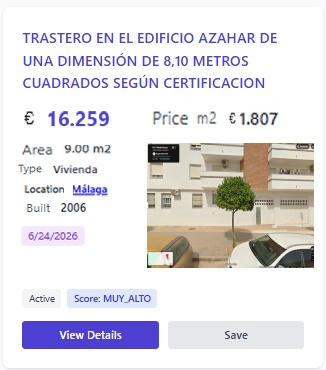
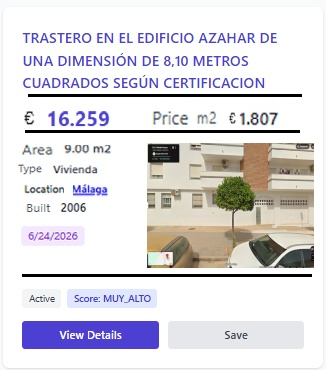
Implement global section numbering system without repetition
- Create SectionNumberContext for global counter management
- SectionNumber component auto-increments without parameters
- Add subsection numbers to AuctionCard (info + map)
- Reset counter on page navigation
- Numbers are unique and consecutive throughout entire app

Flow:
- Search page: 1 (filters), 2 (results header)
- Each auction card: auto-incrementing (3, 5, 7... for info; 4, 6, 8... for map)
- Detail page: continues from where search left off

Changed region(s): [[0.0613, 0.7432, 0.9509, 0.773], [0.092, 0.327, 0.9202, 0.3568], [0.092, 0.2378, 0.9202, 0.2676]]

diff --git a/frontend/src/pages/AuctionDetail.tsx b/frontend/src/pages/AuctionDetail.tsx
@@ -2,6 +2,7 @@ import React, { useEffect, useState } from 'react';
 import { useParams, useNavigate } from 'react-router-dom';
 import { auctionsAPI } from '../services/api';
 import { useAuth } from '../hooks/useAuth';
+import { useResetSectionNumbers } from '../hooks/useResetSectionNumbers';
 import { SectionNumber } from '../components/SectionNumber';
 
 interface AuctionDetail {
@@ -28,6 +29,7 @@ interface AuctionDetail {
 }
 
 export const AuctionDetail: React.FC = () => {
+  useResetSectionNumbers();
   const { id } = useParams<{ id: string }>();
   const navigate = useNavigate();
   const { user } = useAuth();
@@ -122,7 +124,7 @@ export const AuctionDetail: React.FC = () => {
         <div className="lg:col-span-2">
           <div className="bg-white rounded-lg shadow p-8 relative">
             <div className="flex justify-between items-start mb-6">
-              <SectionNumber number={1} />
+              <SectionNumber />
               <h1 className="text-3xl font-bold">{auction.title}</h1>
               <button
                 onClick={handleWatchlist}
@@ -139,7 +141,7 @@ export const AuctionDetail: React.FC = () => {
             {/* Description */}
             {auction.description && (
               <div className="mb-8 relative">
-                <SectionNumber number={2} />
+                <SectionNumber  />
                 <h2 className="text-xl font-semibold mb-4">📝 Descripción</h2>
                 <p className="text-gray-700 whitespace-pre-wrap">{auction.description}</p>
               </div>
@@ -148,7 +150,7 @@ export const AuctionDetail: React.FC = () => {
             {/* Street View Section */}
             {auction.details?.gps_latitude && auction.details?.gps_longitude && (
               <div className="mb-8 flex justify-center relative">
-                <SectionNumber number={3} />
+                <SectionNumber  />
                 <div className="w-1/2">
                   <h2 className="text-xl font-semibold mb-4">📍 Ubicación</h2>
                   <div style={{ paddingBottom: '56.25%', position: 'relative', height: 0 }} className="rounded-lg overflow-hidden shadow-md">
@@ -186,7 +188,7 @@ export const AuctionDetail: React.FC = () => {
 
             {/* Details Grid */}
             <div className="grid grid-cols-2 md:grid-cols-3 gap-6 relative">
-              <SectionNumber number={4} />
+              <SectionNumber  />
               <div>
                 <p className="text-gray-600 text-sm">📍 Provincia</p>
                 <p className="text-lg font-semibold">{auction.province}</p>
@@ -227,7 +229,7 @@ export const AuctionDetail: React.FC = () => {
         <div className="space-y-6">
           {/* Status Card */}
           <div className="bg-white rounded-lg shadow p-6 relative">
-            <SectionNumber number={5} />
+            <SectionNumber  />
             <h3 className="font-semibold mb-4">Estado de la Subasta</h3>
             <div className="space-y-3">
               <div>
@@ -251,7 +253,7 @@ export const AuctionDetail: React.FC = () => {
 
           {/* Dates Card */}
           <div className="bg-white rounded-lg shadow p-6 relative">
-            <SectionNumber number={6} />
+            <SectionNumber  />
             <h3 className="font-semibold mb-4">📅 Fechas</h3>
             <div className="space-y-3">
               <div>
@@ -272,7 +274,7 @@ export const AuctionDetail: React.FC = () => {
           {/* External Link */}
           {auction.url && (
             <div className="relative">
-              <SectionNumber number={7} />
+              <SectionNumber  />
               <a
               href={auction.url}
               target="_blank"

diff --git a/frontend/src/pages/Search.tsx b/frontend/src/pages/Search.tsx
@@ -3,6 +3,7 @@ import { SearchFilters, FilterState } from '../components/SearchFilters';
 import { AuctionCard } from '../components/AuctionCard';
 import { auctionsAPI } from '../services/api';
 import { useAuth } from '../hooks/useAuth';
+import { useResetSectionNumbers } from '../hooks/useResetSectionNumbers';
 import { SectionNumber } from '../components/SectionNumber';
 
 interface Auction {
@@ -19,6 +20,7 @@ interface Auction {
 }
 
 export const Search: React.FC = () => {
+  useResetSectionNumbers();
   const [auctions, setAuctions] = useState<Auction[]>([]);
   const [loading, setLoading] = useState(false);
   const [error, setError] = useState<string | null>(null);
@@ -87,7 +89,7 @@ export const Search: React.FC = () => {
       <h1 className="text-3xl font-bold mb-8">🔍 Buscar Subastas</h1>
 
       <div className="relative mb-8">
-        <SectionNumber number={1} />
+        <SectionNumber />
         <SearchFilters onFilter={handleFilter} />
       </div>
 
@@ -114,7 +116,7 @@ export const Search: React.FC = () => {
 
       {!loading && auctions.length > 0 && (
         <div className="grid grid-cols-1 md:grid-cols-2 lg:grid-cols-3 gap-6 relative">
-          <SectionNumber number={2} />
+          <SectionNumber />
           {auctions.map((auction) => (
             <AuctionCard
               key={auction.id}

diff --git a/frontend/src/components/AuctionCard.tsx b/frontend/src/components/AuctionCard.tsx
@@ -1,5 +1,6 @@
 import React from 'react';
 import { Link } from 'react-router-dom';
+import { SectionNumber } from './SectionNumber';
 
 interface Auction {
   id: string;
@@ -52,7 +53,8 @@ export const AuctionCard: React.FC<AuctionCardProps> = ({
     <div className="bg-white rounded-lg shadow hover:shadow-lg transition-shadow overflow-hidden">
       <div className="flex flex-col">
         {/* Top section - Information */}
-        <div className="p-6">
+        <div className="p-6 relative">
+          <SectionNumber />
           <Link
             to={`/auctions/${auction.id}`}
             className="text-lg font-semibold text-brand-600 hover:text-brand-700 block mb-4"
@@ -143,7 +145,8 @@ export const AuctionCard: React.FC<AuctionCardProps> = ({
 
         {/* Bottom section - Map Preview */}
         {auction.gps_latitude && auction.gps_longitude && (
-          <div className="bg-gray-50 border-t">
+          <div className="bg-gray-50 border-t relative">
+            <SectionNumber />
             <div className="relative overflow-hidden bg-gray-200" style={{ aspectRatio: '16 / 9' }}>
               <iframe
                 style={{

diff --git a/frontend/src/App.tsx b/frontend/src/App.tsx
@@ -1,6 +1,7 @@
 import React from 'react';
 import { BrowserRouter, Routes, Route, Navigate } from 'react-router-dom';
 import { AuthProvider } from './context/AuthContext';
+import { SectionNumberProvider } from './context/SectionNumberContext';
 import { Header } from './components/Header';
 import { Home } from './pages/Home';
 import { Login } from './pages/Login';
@@ -13,9 +14,10 @@ import './index.css';
 
 function App() {
   return (
-    <BrowserRouter>
-      <AuthProvider>
-        <div className="min-h-screen flex flex-col bg-gray-50">
+    <SectionNumberProvider>
+      <BrowserRouter>
+        <AuthProvider>
+          <div className="min-h-screen flex flex-col bg-gray-50">
           <Header />
           <main className="flex-1">
             <Routes>
@@ -30,8 +32,9 @@ function App() {
             </Routes>
           </main>
         </div>
-      </AuthProvider>
-    </BrowserRouter>
+        </AuthProvider>
+      </BrowserRouter>
+    </SectionNumberProvider>
   );
 }
 

diff --git a/frontend/src/context/SectionNumberContext.tsx b/frontend/src/context/SectionNumberContext.tsx
@@ -1,0 +1,36 @@
+import React, { createContext, useContext, useState } from 'react';
+
+interface SectionNumberContextType {
+  nextNumber: () => number;
+  reset: () => void;
+}
+
+const SectionNumberContext = createContext<SectionNumberContextType | undefined>(undefined);
+
+export const SectionNumberProvider: React.FC<{ children: React.ReactNode }> = ({ children }) => {
+  const [counter, setCounter] = useState(1);
+
+  const nextNumber = () => {
+    const current = counter;
+    setCounter(counter + 1);
+    return current;
+  };
+
+  const reset = () => {
+    setCounter(1);
+  };
+
+  return (
+    <SectionNumberContext.Provider value={{ nextNumber, reset }}>
+      {children}
+    </SectionNumberContext.Provider>
+  );
+};
+
+export const useSectionNumber = () => {
+  const context = useContext(SectionNumberContext);
+  if (!context) {
+    throw new Error('useSectionNumber must be used within SectionNumberProvider');
+  }
+  return context;
+};

diff --git a/frontend/src/components/SectionNumber.tsx b/frontend/src/components/SectionNumber.tsx
@@ -1,14 +1,18 @@
 import React from 'react';
+import { useSectionNumber } from '../context/SectionNumberContext';
 
 const SHOW_SECTION_NUMBERS = true; // Cambiar a false para ocultar
 
 interface SectionNumberProps {
-  number: number;
   className?: string;
 }
 
-export const SectionNumber: React.FC<SectionNumberProps> = ({ number, className = '' }) => {
+export const SectionNumber: React.FC<SectionNumberProps> = ({ className = '' }) => {
+  const { nextNumber } = useSectionNumber();
+
   if (!SHOW_SECTION_NUMBERS) return null;
+
+  const number = nextNumber();
 
   return (
     <div

diff --git a/frontend/src/hooks/useResetSectionNumbers.ts b/frontend/src/hooks/useResetSectionNumbers.ts
@@ -1,0 +1,12 @@
+import { useEffect } from 'react';
+import { useLocation } from 'react-router-dom';
+import { useSectionNumber } from '../context/SectionNumberContext';
+
+export const useResetSectionNumbers = () => {
+  const location = useLocation();
+  const { reset } = useSectionNumber();
+
+  useEffect(() => {
+    reset();
+  }, [location.pathname, reset]);
+};
